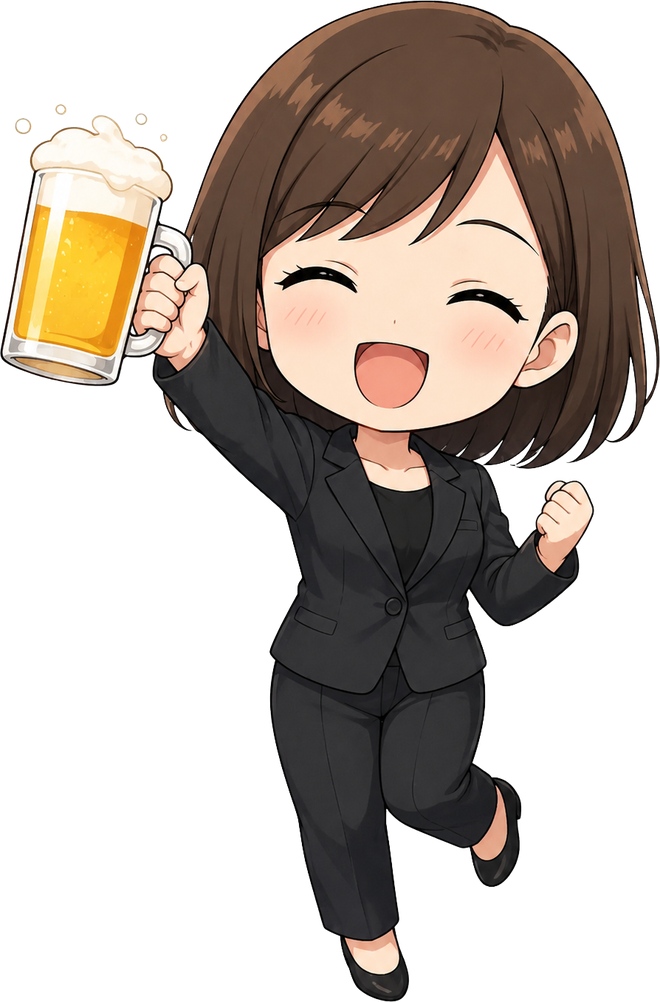
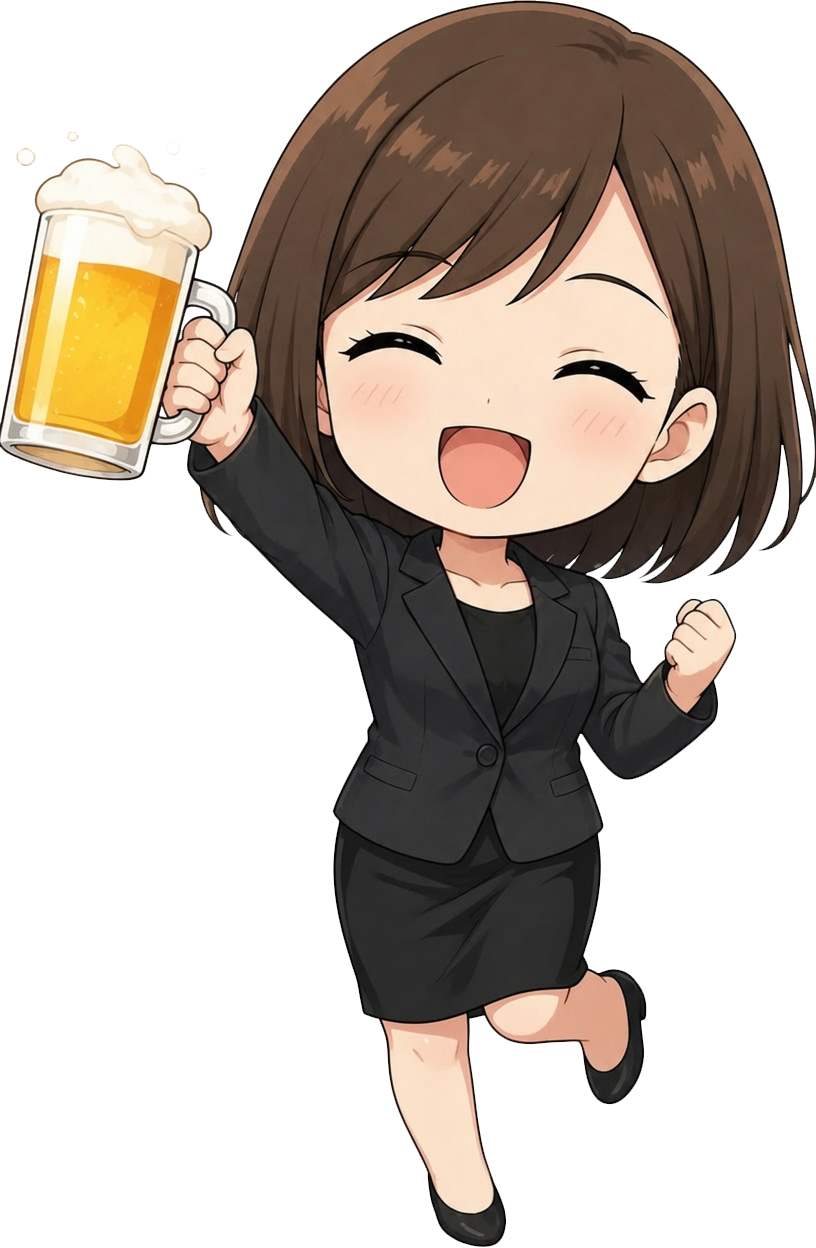
feat: スプラッシュにスカート版マスコットと飲み会背景アニメを追加
起動画面に透過マスコットを差し替え、ビールの泡・フィズ・モチーフの
浮遊アニメーションを背景に追加する。

diff --git a/style.css b/style.css
@@ -1239,7 +1239,7 @@ body.dragging-active { user-select: none; -webkit-user-select: none; cursor: gra
 
 /* ===================================================
    SPLASH SCREEN  —  起動スプラッシュ 🍻
-   キャラがぴょこっと出てフェードアウト。タップ/スキップで即閉じ。
+   キャラ + ビールのシュワシュワ / 飲み会モチーフ背景
    =================================================== */
 .splash {
   position: fixed;
@@ -1250,9 +1250,11 @@ body.dragging-active { user-select: none; -webkit-user-select: none; cursor: gra
   align-items: center;
   justify-content: center;
   gap: 6px;
+  overflow: hidden;
+  /* 本体と同系の暖色 + 弱い上下の光（境界の出やすい多段 linear は使わない） */
   background:
-    radial-gradient(1000px 560px at 50% 18%, #ffe7cf 0%, rgba(255,231,207,0) 60%),
-    radial-gradient(900px 520px at 50% 110%, #ffd9e3 0%, rgba(255,217,227,0) 55%),
+    radial-gradient(900px 480px at 50% 12%, rgba(255, 236, 214, .7) 0%, rgba(255, 236, 214, 0) 70%),
+    radial-gradient(780px 420px at 50% 108%, rgba(255, 214, 170, .35) 0%, rgba(255, 214, 170, 0) 68%),
     var(--bg);
   -webkit-tap-highlight-color: transparent;
   cursor: pointer;
@@ -1260,7 +1262,123 @@ body.dragging-active { user-select: none; -webkit-user-select: none; cursor: gra
 }
 .splash.is-hiding { opacity: 0; visibility: hidden; pointer-events: none; }
 
+/* ---- 背景エフェクト層 ---- */
+.splash-fx {
+  position: absolute;
+  inset: 0;
+  pointer-events: none;
+  z-index: 0;
+  overflow: hidden;
+}
+
+/* 琥珀（ビール色）の薄い揺らぎ */
+.splash-amber {
+  position: absolute;
+  inset: -15%;
+  background:
+    radial-gradient(ellipse 80% 55% at 30% 92%, rgba(255, 186, 90, .16) 0%, transparent 72%),
+    radial-gradient(ellipse 70% 50% at 72% 95%, rgba(255, 160, 70, .12) 0%, transparent 70%),
+    radial-gradient(ellipse 55% 40% at 50% 100%, rgba(255, 210, 130, .14) 0%, transparent 68%);
+  animation: splashAmber 8s ease-in-out infinite alternate;
+  filter: blur(18px);
+  opacity: .9;
+}
+
+/* 上部のもや */
+.splash-foam-layer {
+  position: absolute;
+  left: 0;
+  right: 0;
+  top: 0;
+  height: 36%;
+  background:
+    radial-gradient(ellipse 90% 80% at 50% 0%, rgba(255, 255, 255, .28) 0%, transparent 72%);
+  animation: splashFoam 7s ease-in-out infinite alternate;
+  filter: blur(12px);
+  opacity: .7;
+}
+
+/* 泡 — 下からシュワシュワ上昇 */
+.splash-bubbles span {
+  position: absolute;
+  bottom: -48px;
+  left: calc(var(--x) * 1%);
+  width: calc(var(--s) * 1px);
+  height: calc(var(--s) * 1px);
+  border-radius: 50%;
+  background:
+    radial-gradient(circle at 32% 28%,
+      rgba(255, 255, 255, .95) 0%,
+      rgba(255, 245, 210, .55) 38%,
+      rgba(255, 200, 100, .22) 68%,
+      rgba(255, 170, 50, .06) 100%);
+  box-shadow:
+    inset -2px -3px 5px rgba(255, 160, 40, .18),
+    inset 2px 2px 4px rgba(255, 255, 255, .75),
+    0 0 10px rgba(255, 200, 90, .22);
+  animation: splashBubbleRise var(--d) cubic-bezier(.25, .4, .35, 1) infinite;
+  animation-delay: var(--delay);
+  opacity: 0;
+  will-change: transform, opacity;
+}
+
+/* 細かいフィズ */
+.splash-fizz i {
+  position: absolute;
+  bottom: 8%;
+  left: calc(6% + (var(--n, 0) * 5.8%));
+  width: 3px;
+  height: 3px;
+  border-radius: 50%;
+  background: rgba(255, 248, 220, .9);
+  box-shadow: 0 0 6px rgba(255, 210, 80, .7);
+  animation: splashFizz 2.4s ease-out infinite;
+  opacity: 0;
+}
+.splash-fizz i:nth-child(1)  { --n: 0;  animation-delay: 0s;    animation-duration: 2.1s; }
+.splash-fizz i:nth-child(2)  { --n: 1;  animation-delay: .35s;  animation-duration: 2.6s; width: 2px; height: 2px; }
+.splash-fizz i:nth-child(3)  { --n: 2;  animation-delay: .7s;   animation-duration: 2.2s; }
+.splash-fizz i:nth-child(4)  { --n: 3;  animation-delay: .15s;  animation-duration: 2.8s; width: 4px; height: 4px; }
+.splash-fizz i:nth-child(5)  { --n: 4;  animation-delay: 1.1s;  animation-duration: 2s; }
+.splash-fizz i:nth-child(6)  { --n: 5;  animation-delay: .5s;   animation-duration: 2.5s; width: 2px; height: 2px; }
+.splash-fizz i:nth-child(7)  { --n: 6;  animation-delay: 1.4s;  animation-duration: 2.3s; }
+.splash-fizz i:nth-child(8)  { --n: 7;  animation-delay: .9s;   animation-duration: 2.7s; width: 3px; height: 3px; }
+.splash-fizz i:nth-child(9)  { --n: 8;  animation-delay: .25s;  animation-duration: 2.15s; }
+.splash-fizz i:nth-child(10) { --n: 9;  animation-delay: 1.7s;  animation-duration: 2.4s; width: 2px; height: 2px; }
+.splash-fizz i:nth-child(11) { --n: 10; animation-delay: .6s;   animation-duration: 2.9s; }
+.splash-fizz i:nth-child(12) { --n: 11; animation-delay: 1.25s; animation-duration: 2.05s; }
+.splash-fizz i:nth-child(13) { --n: 12; animation-delay: .4s;   animation-duration: 2.55s; width: 4px; height: 4px; }
+.splash-fizz i:nth-child(14) { --n: 13; animation-delay: 1.9s;  animation-duration: 2.2s; }
+.splash-fizz i:nth-child(15) { --n: 14; animation-delay: .8s;   animation-duration: 2.65s; width: 2px; height: 2px; }
+.splash-fizz i:nth-child(16) { --n: 15; animation-delay: 1.55s; animation-duration: 2.35s; }
+
+/* 飲み会モチーフ（端でふわふわ・サイズバラバラ） */
+.splash-motifs {
+  position: absolute;
+  inset: 0;
+  z-index: 0;
+  pointer-events: none;
+}
+.splash-motif {
+  position: absolute;
+  left: var(--x);
+  top: var(--y);
+  font-size: var(--size, 1.3rem);
+  line-height: 1;
+  opacity: 0;
+  filter: drop-shadow(0 4px 8px rgba(140, 90, 40, .12));
+  animation:
+    splashMotifFloat var(--dur, 10s) ease-in-out infinite,
+    splashMotifFade .9s ease both;
+  animation-delay: var(--delay, 0s), calc(var(--delay, 0s) * 0.35);
+  transform: rotate(var(--rot, 0deg));
+  will-change: transform, opacity;
+  user-select: none;
+}
+
 .splash-inner {
+  position: relative;
+  z-index: 1;
   display: flex;
   flex-direction: column;
   align-items: center;
@@ -1361,6 +1479,55 @@ body.dragging-active { user-select: none; -webkit-user-select: none; cursor: gra
   0%,100% { transform: scale(1); }
   50%     { transform: scale(1.05); }
 }
+@keyframes splashAmber {
+  0%   { transform: scale(1) translate(0, 0); opacity: .85; }
+  100% { transform: scale(1.04) translate(1%, -0.5%); opacity: 1; }
+}
+@keyframes splashFoam {
+  0%   { transform: translateY(0); opacity: .55; }
+  100% { transform: translateY(4px); opacity: .8; }
+}
+@keyframes splashBubbleRise {
+  0% {
+    transform: translate3d(0, 0, 0) scale(.55);
+    opacity: 0;
+  }
+  8% { opacity: .9; }
+  70% { opacity: .65; }
+  100% {
+    transform: translate3d(var(--drift), -110vh, 0) scale(1.15);
+    opacity: 0;
+  }
+}
+@keyframes splashFizz {
+  0% {
+    transform: translate3d(0, 0, 0) scale(.4);
+    opacity: 0;
+  }
+  12% { opacity: 1; }
+  100% {
+    transform: translate3d(calc((var(--n, 0) % 3 - 1) * 18px), -42vh, 0) scale(1.2);
+    opacity: 0;
+  }
+}
+@keyframes splashMotifFade {
+  from { opacity: 0; transform: rotate(var(--rot, 0deg)) scale(.7); }
+  to   { opacity: .52; transform: rotate(var(--rot, 0deg)) scale(1); }
+}
+@keyframes splashMotifFloat {
+  0%, 100% {
+    transform: translate3d(0, 0, 0) rotate(var(--rot, 0deg)) scale(1);
+  }
+  25% {
+    transform: translate3d(var(--drift, 10px), -12px, 0) rotate(calc(var(--rot, 0deg) + 6deg)) scale(1.06);
+  }
+  50% {
+    transform: translate3d(calc(var(--drift, 10px) * -0.4), -22px, 0) rotate(calc(var(--rot, 0deg) - 4deg)) scale(1);
+  }
+  75% {
+    transform: translate3d(calc(var(--drift, 10px) * 0.55), -10px, 0) rotate(calc(var(--rot, 0deg) + 3deg)) scale(1.04);
+  }
+}
 
 @media (max-width: 600px) {
   .splash-mascot { width: auto; height: 250px; }
@@ -1368,11 +1535,22 @@ body.dragging-active { user-select: none; -webkit-user-select: none; cursor: gra
   .splash-glow { width: 200px; height: 200px; }
   .splash-title { font-size: 28px; }
   .splash-tagline { font-size: 12.5px; }
+  .splash-bubbles span:nth-child(n+14) { display: none; }
+  .splash-motif { font-size: calc(var(--size, 1.3rem) * 0.88) !important; }
+  .splash-motif:nth-child(n+9) { display: none; }
 }
 
 @media (prefers-reduced-motion: reduce) {
   .splash-inner,
   .splash-mascot,
   .splash-glow,
-  .splash-start { animation: none !important; }
+  .splash-start,
+  .splash-amber,
+  .splash-foam-layer,
+  .splash-bubbles span,
+  .splash-fizz i,
+  .splash-motif { animation: none !important; }
+  .splash-bubbles span,
+  .splash-fizz i { opacity: .35; transform: none; }
+  .splash-motif { opacity: .4; }
 }

diff --git a/index.html b/index.html
@@ -14,10 +14,55 @@
 
 <!-- ===== スプラッシュ（起動画面） ===== -->
 <div id="splashScreen" class="splash">
+  <!-- 背景アニメ：ビールのシュワシュワ + 飲み会モチーフ -->
+  <div class="splash-fx" aria-hidden="true">
+    <div class="splash-amber"></div>
+    <div class="splash-foam-layer"></div>
+    <div class="splash-bubbles">
+      <span style="--x:6;  --s:10; --d:7.5s; --delay:0s;    --drift:12px"></span>
+      <span style="--x:14; --s:16; --d:9.2s; --delay:1.2s;  --drift:-18px"></span>
+      <span style="--x:22; --s:8;  --d:6.4s; --delay:2.8s;  --drift:8px"></span>
+      <span style="--x:31; --s:22; --d:11s;  --delay:0.6s;  --drift:-10px"></span>
+      <span style="--x:38; --s:12; --d:8.1s; --delay:3.5s;  --drift:20px"></span>
+      <span style="--x:47; --s:9;  --d:7s;   --delay:1.8s;  --drift:-6px"></span>
+      <span style="--x:55; --s:18; --d:10.2s;--delay:0.3s;  --drift:14px"></span>
+      <span style="--x:63; --s:11; --d:6.8s; --delay:4.1s;  --drift:-16px"></span>
+      <span style="--x:71; --s:14; --d:9s;   --delay:2.2s;  --drift:9px"></span>
+      <span style="--x:78; --s:7;  --d:5.8s; --delay:3.1s;  --drift:-12px"></span>
+      <span style="--x:86; --s:20; --d:10.8s;--delay:1.5s;  --drift:6px"></span>
+      <span style="--x:93; --s:13; --d:7.6s; --delay:0.9s;  --drift:-20px"></span>
+      <span style="--x:10; --s:6;  --d:5.2s; --delay:4.8s;  --drift:15px"></span>
+      <span style="--x:42; --s:15; --d:8.6s; --delay:5.2s;  --drift:-8px"></span>
+      <span style="--x:58; --s:8;  --d:6.1s; --delay:2.5s;  --drift:18px"></span>
+      <span style="--x:82; --s:17; --d:9.8s; --delay:3.8s;  --drift:-14px"></span>
+      <span style="--x:26; --s:5;  --d:4.8s; --delay:1.1s;  --drift:10px"></span>
+      <span style="--x:67; --s:10; --d:7.3s; --delay:4.4s;  --drift:-7px"></span>
+      <span style="--x:4;  --s:12; --d:8.4s; --delay:5.6s;  --drift:11px"></span>
+      <span style="--x:96; --s:9;  --d:6.5s; --delay:2s;    --drift:-9px"></span>
+    </div>
+    <div class="splash-fizz">
+      <i></i><i></i><i></i><i></i><i></i><i></i><i></i><i></i>
+      <i></i><i></i><i></i><i></i><i></i><i></i><i></i><i></i>
+    </div>
+    <div class="splash-motifs">
+      <span class="splash-motif" style="--x:8%;  --y:18%; --size:2.4rem;  --dur:9s;   --delay:0s;   --rot:-12deg; --drift:14px">🍺</span>
+      <span class="splash-motif" style="--x:86%; --y:14%; --size:1.05rem; --dur:10.5s; --delay:1.2s; --rot:10deg;  --drift:-12px">🍢</span>
+      <span class="splash-motif" style="--x:14%; --y:62%; --size:1.7rem;  --dur:8.5s;  --delay:2.1s; --rot:8deg;   --drift:10px">🫛</span>
+      <span class="splash-motif" style="--x:90%; --y:58%; --size:2.85rem; --dur:11s;   --delay:.6s;  --rot:-8deg;  --drift:-16px">🍻</span>
+      <span class="splash-motif" style="--x:6%;  --y:40%; --size:0.85rem; --dur:9.8s;  --delay:3s;   --rot:14deg;  --drift:8px">🍋</span>
+      <span class="splash-motif" style="--x:78%; --y:78%; --size:2.1rem;  --dur:10.2s; --delay:1.8s; --rot:-16deg; --drift:12px">🍗</span>
+      <span class="splash-motif" style="--x:22%; --y:82%; --size:1.35rem; --dur:8.8s;  --delay:2.6s; --rot:6deg;   --drift:-10px">🍶</span>
+      <span class="splash-motif" style="--x:72%; --y:28%; --size:0.95rem; --dur:9.4s;  --delay:.9s;  --rot:-6deg;  --drift:15px">🥢</span>
+      <span class="splash-motif" style="--x:40%; --y:10%; --size:0.75rem; --dur:12s;   --delay:3.4s; --rot:18deg;  --drift:-8px">✨</span>
+      <span class="splash-motif" style="--x:58%; --y:86%; --size:1.9rem;  --dur:9.6s;  --delay:1.5s; --rot:-10deg; --drift:11px">🍺</span>
+      <span class="splash-motif" style="--x:92%; --y:38%; --size:1.15rem; --dur:8.2s;  --delay:2.9s; --rot:12deg;  --drift:-14px">🫛</span>
+      <span class="splash-motif" style="--x:4%;  --y:78%; --size:2.55rem; --dur:10.8s; --delay:.4s;  --rot:-14deg; --drift:9px">🍢</span>
+    </div>
+  </div>
   <div class="splash-inner">
     <div class="splash-mascot-wrap">
       <div class="splash-glow"></div>
-      <img class="splash-mascot" src="assets/mascot.png" alt="" width="198" height="300" decoding="async">
+      <img class="splash-mascot" src="assets/mascot.png?v=user1" alt="飲み会マスコット" width="198" height="300" decoding="async">
     </div>
     <div class="splash-title">飲み会管理</div>
     <div class="splash-tagline">かんぱーい！🍻 予算と集金、まるっとおまかせ</div>
